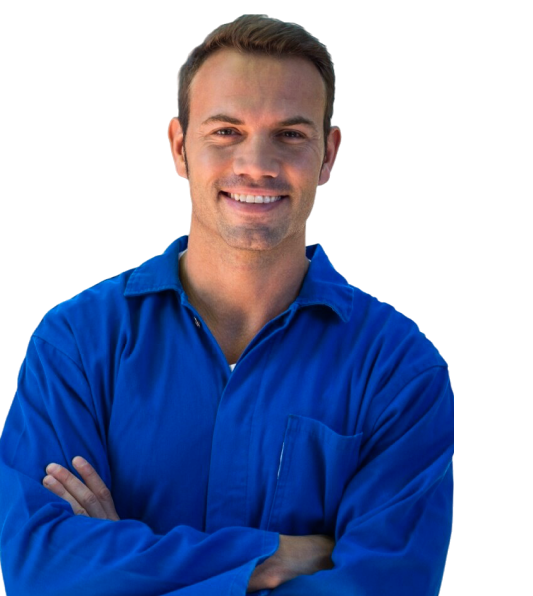
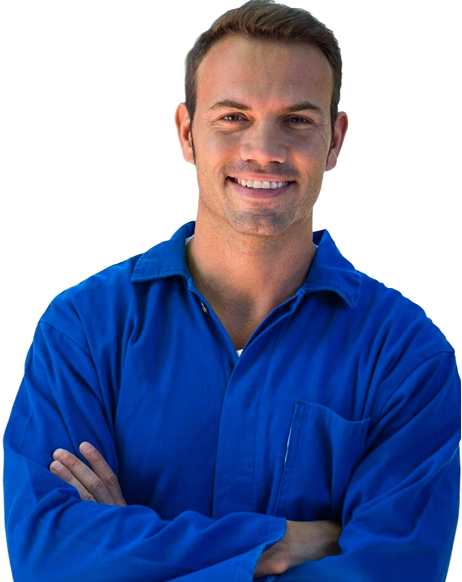
style: início da página de agendamentos. Feat: adição do banco de dados provisório

diff --git a/app/templates/base.html b/app/templates/base.html
@@ -1,5 +1,6 @@
 <!DOCTYPE html>
 <html lang="pt-br">
+
 <head>
     <meta charset="UTF-8">
     <meta name="viewport" content="width=device-width, initial-scale=1.0">
@@ -7,29 +8,40 @@
     {% block head %}{% endblock %}
     <style>
         /* Minimal header centering so templates without CSS still look okay */
-        .base-header { display:flex; justify-content:center; align-items:center; padding:18px 0; }
-        .base-header img { height:44px; }
+        .base-header {
+            display: flex;
+            justify-content: center;
+            align-items: center;
+            padding: 18px 0;
+        }
+
+        .base-header img {
+            height: 44px;
+        }
     </style>
 </head>
+
 <body>
 
-    <header class="base-header">
-        <a href="{{ url_for('index') }}"><img src="{{ url_for('static', filename='imgs/base/itzn brand.svg') }}" alt="ITZN"></a>
+    <header>
+        <section class="container">
+            <div>
+                <i class="fa-regular fa-bars"></i>
+                <img src="..//../static/imgs/base/itzn brand.svg" alt="">
+            </div>
+        </section>
     </header>
 
-        {% with messages = get_flashed_messages(with_categories=true) %}
-            {% if messages %}
-                <div class="flash-container" style="max-width:1200px;margin:12px auto; padding:0 16px;">
-                    {% for category, msg in messages %}
-                        <div class="flash {{ category }}" style="padding:10px 12px; border-radius:8px; margin-bottom:8px;">
-                            {{ msg }}
-                        </div>
-                    {% endfor %}
-                </div>
-            {% endif %}
-        {% endwith %}
+    <main>
+        <aside>
+            <nav>
 
-        {% block content %}{% endblock %}
+            </nav>
+        </aside>
+    </main>
+
+    {% block content %}{% endblock %}
 
 </body>
+
 </html>

diff --git a/app/templates/auth/cadastro.html b/app/templates/auth/cadastro.html
@@ -16,7 +16,7 @@
                         <h1>Cadastro</h1>
                         <h3>Preencha seus dados</h3>
                     </div>
-                    <div class="info flex coluna meio-horizontal">
+                    <form class="info flex coluna meio-horizontal" action="{{ url_for('login') }}">
                         <div class="form flex coluna">
                             <div class="flex coluna">
                                 <label name="text" for="">Nome:</label>
@@ -28,7 +28,7 @@
                             </div>
                             <div class="flex coluna">
                                 <label name="text" for="">Data de nascimento:</label>
-                                <input type="text" placeholder="00/00/0000">
+                                <input type="text" placeholder="DD/MM/AA" onfocus="(this.type = 'date')" onblur="(this.type = 'text')">
                             </div>
                             <div class="flex coluna">
                                 <label name="email" for="">E-mail:</label>
@@ -36,11 +36,11 @@
                             </div>
                             <div class="flex coluna">
                                 <label name="senha" for="">Senha:</label>
-                                <input type="password" placeholder="Digite sua senha">
+                                <input type="password" onfocus="" placeholder="Digite sua senha">
                             </div>
                         </div>
                         <button type="submit">Enviar</button>
-                    </div>
+                    </form>
                     <h4>Já tem uma conta? <a href="{{ url_for('login') }}">Login</a></h4>
                 </div>
                 <img src="../../static/imgs/cadastro/Frame 7.svg" alt="">

diff --git a/app/templates/auth/login.html b/app/templates/auth/login.html
@@ -16,7 +16,7 @@
                         <h1>Login</h1>
                         <h3>Bem-vindo à Incubadora!</h3>
                     </div>
-                    <div class="info flex coluna meio-horizontal">
+                    <form class="info flex coluna meio-horizontal" action="{{ url_for('dashboard') }}">
                         <div class="form flex coluna">
                             <div class="flex coluna">
                                 <label name="email" for="">E-mail:</label>
@@ -33,7 +33,7 @@
                             </div>
                         </div>
                         <button type="submit">Enviar</button>
-                    </div>
+                    </form>
                     <h4>Não tem uma conta? <a href="{{ url_for('cadastro') }}">Clique aqui</a></h4>
                 </div>
                 <img src="../../static/imgs/cadastro/Frame 7.svg" alt="">

diff --git a/app/templates/main/agendamentos.html b/app/templates/main/agendamentos.html
@@ -1,0 +1,24 @@
+<!DOCTYPE html>
+<html lang="pt-br">
+<head>
+    <meta charset="UTF-8">
+    <meta name="viewport" content="width=device-width, initial-scale=1.0">
+    <link rel="stylesheet" href="//use.fontawesome.com/releases/v5.0.7/css/all.css">
+    <link rel="stylesheet" href="../../static/css/agendamentos.css">
+    <title>{{ title }}</title>
+</head>
+<body>
+    
+    {% extends 'base.html' %}
+
+    {% block content %}
+    <main>
+        <section class="container">
+            
+
+        </section>
+    </main>
+    {% endblock %}
+
+</body>
+</html>

diff --git a/app/static/css/base.css b/app/static/css/base.css
@@ -1,0 +1,3 @@
+@import url('https://fonts.googleapis.com/css2?family=Inter:ital,opsz,wght@0,14..32,100..900;1,14..32,100..900&family=SUSE:wght@100..800&display=swap');
+@import url('https://fonts.googleapis.com/css2?family=Inter:ital,opsz,wght@0,14..32,100..900;1,14..32,100..900&family=Lato:ital,wght@0,100;0,300;0,400;0,700;0,900;1,100;1,300;1,400;1,700;1,900&family=SUSE:wght@100..800&family=Ubuntu:ital,wght@0,300;0,400;0,500;0,700;1,300;1,400;1,500;1,700&display=swap');
+

diff --git a/app/static/css/index.css b/app/static/css/index.css
@@ -55,12 +55,13 @@ main .herobanner .container .texto-herobanner a:hover {
     color: #0052FB;
 }
 
-main .herobanner .container .texto-herobanner .homem {
+main .herobanner .container .homem {
+    align-items: flex-end;
 }
 
-main .herobanner .container .texto-herobanner .homem img {
-    height: 674px; 
-    width: 533px;  
+main .herobanner .container .homem img {
+    height: 660px; 
+    width: 498px;  
 }
 
 main .o-que-fazemos {

diff --git a/app/templates/main/dashboard.html b/app/templates/main/dashboard.html
@@ -42,6 +42,7 @@
             <a class="button fundo-principal" href="{{ url_for('cadastro') }}">Novo Projeto</a>
             <a class="button" href="{{ url_for('eventos') }}">Criar Evento</a>
             <a class="button" href="{{ url_for('contato') }}">Contatar</a>
+            <a class="button" href="{{ url_for('agendamentos') }}">Agendamentos</a>
         </section>
 
         <section class="dashboard-recent">

diff --git a/app/static/css/cadastro.css b/app/static/css/cadastro.css
@@ -98,6 +98,7 @@ main .left .container .cadastro .info button {
     border: none;
     border-radius: 15px;
     color: #FFFFFF;
+    cursor: pointer;
     height: 36px;
     width: 100%;
 }

diff --git a/app/static/css/login.css b/app/static/css/login.css
@@ -114,6 +114,7 @@ main .left .container .login .info button {
     border: none;
     border-radius: 15px;
     color: #FFFFFF;
+    cursor: pointer;
     height: 36px;
     width: 100%;
 }

diff --git a/app/templates/base2.html b/app/templates/base2.html
@@ -1,5 +1,5 @@
 <!DOCTYPE html>
-<html lang="en">
+<html lang="pt-br">
 
 <head>
     <meta charset="UTF-8">

diff --git a/app/templates/index.html b/app/templates/index.html
@@ -1,5 +1,5 @@
 <!DOCTYPE html>
-<html lang="en">
+<html lang="pt-br">
 
 <head>
     <meta charset="UTF-8">

diff --git a/app/templates/main/contato.html b/app/templates/main/contato.html
@@ -1,5 +1,5 @@
 <!DOCTYPE html>
-<html lang="en">
+<html lang="pt-br">
 
 <head>
     <meta charset="UTF-8">
